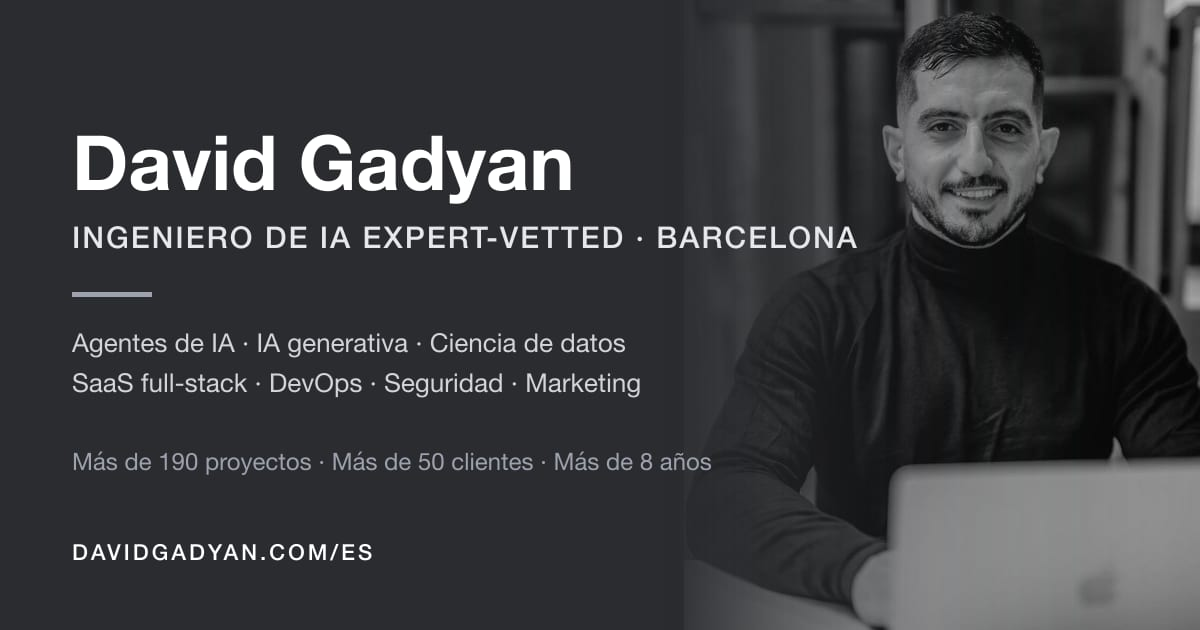
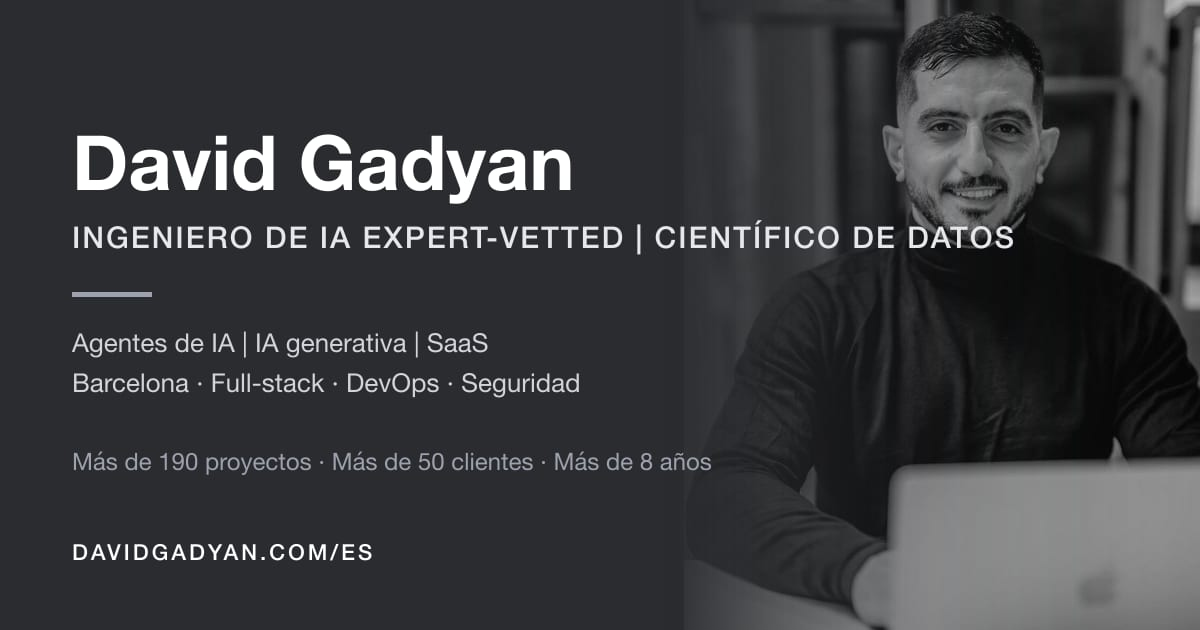
Use the EXPERT-VETTED headline in every title and tag
"EXPERT-VETTED AI Engineer | Data Scientist | AI Agent | Generative AI | SaaS" (ES:
"Ingeniero de IA EXPERT-VETTED | Científico de datos | Agentes de IA | IA generativa | SaaS")
now appears in the OG/Twitter image alt, hero image alt, JSON-LD jobTitle and service name,
manifest name, footer copyright, privacy page, FAQ answer, README and package description.
Share cards regenerated with the headline split over two lines.

Changed region(s): [[0.0617, 0.5127, 0.555, 0.6333], [0.5242, 0.3317, 0.8633, 0.3921]]

diff --git a/data/faq.ts b/data/faq.ts
@@ -5,8 +5,8 @@ export interface FaqEntry { id: string; q: Localized<string>; a: Localized<strin
 export const faq: FaqEntry[] = [
   { id: 'what', keywords: ['who', 'about', 'background', 'role', 'specialise', 'specialize', 'expertise'],
     q: { en: 'What does David Gadyan do?', es: '¿A qué se dedica David Gadyan?' },
-    a: { en: 'David Gadyan is a Full-Stack AI Engineer based in Barcelona with 8+ years of experience and 190+ delivered projects. He integrates AI into websites and products and builds everything around it: the UI/UX, the full-stack application, the database, the deployment and DevOps, the security and compliance work, and the analytics and marketing that prove the result.',
-         es: 'David Gadyan es un Ingeniero Full-Stack de IA afincado en Barcelona, con más de 8 años de experiencia y más de 190 proyectos entregados. Integra IA en webs y productos y construye todo lo que hay alrededor: la UI/UX, la aplicación full-stack, la base de datos, el despliegue y el DevOps, la seguridad y el cumplimiento normativo, y la analítica y el marketing que demuestran el resultado.' } },
+    a: { en: 'David Gadyan is an Upwork EXPERT-VETTED AI Engineer and Data Scientist (AI agents, generative AI, SaaS) based in Barcelona with 8+ years of experience and 190+ delivered projects. He integrates AI into websites and products and builds everything around it: the UI/UX, the full-stack application, the database, the deployment and DevOps, the security and compliance work, and the analytics and marketing that prove the result.',
+         es: 'David Gadyan es un Ingeniero de IA y Científico de datos EXPERT-VETTED en Upwork (agentes de IA, IA generativa, SaaS) afincado en Barcelona, con más de 8 años de experiencia y más de 190 proyectos entregados. Integra IA en webs y productos y construye todo lo que hay alrededor: la UI/UX, la aplicación full-stack, la base de datos, el despliegue y el DevOps, la seguridad y el cumplimiento normativo, y la analítica y el marketing que demuestran el resultado.' } },
   { id: 'services', keywords: ['services', 'offer', 'help', 'do for me', 'capabilities', 'skills'],
     q: { en: 'What services do you offer?', es: '¿Qué servicios ofreces?' },
     a: { en: 'Ten: AI integration for websites and products; agentic AI systems and automation; full-stack web and app development; UI/UX design and dashboards; AI ERP and SaaS development; data science, machine learning and computer vision; databases and data engineering; deployment, DevOps, AIOps and LLMOps; security and compliance (penetration testing, audits, GDPR); and AI marketing with GA4, Google Ads, SEO and GEO/AEO.',

diff --git a/lib/seo/jsonld.ts b/lib/seo/jsonld.ts
@@ -53,7 +53,7 @@ export function serviceNode(locale: Locale) {
   return {
     '@type': 'ProfessionalService',
     '@id': SERVICE_ID,
-    name: locale === 'es' ? 'David Gadyan — Ingeniería Full-Stack de IA' : 'David Gadyan — Full-Stack AI Engineering',
+    name: locale === 'es' ? 'David Gadyan — Ingeniero de IA EXPERT-VETTED | Científico de datos | Agentes de IA | IA generativa | SaaS' : 'David Gadyan — EXPERT-VETTED AI Engineer | Data Scientist | AI Agent | Generative AI | SaaS',
     url: `${SITE_URL}/`,
     founder: { '@id': PERSON_ID },
     address: { '@type': 'PostalAddress', addressLocality: site.city, addressRegion: site.region, addressCountry: site.country },

diff --git a/data/site.ts b/data/site.ts
@@ -4,7 +4,7 @@ export const site = {
   name: 'David Gadyan',
   firstName: 'David',
   lastName: 'Gadyan',
-  jobTitle: { en: 'Expert-Vetted AI Engineer, Data Scientist & SaaS Developer', es: 'Ingeniero de IA Expert-Vetted, Científico de datos y Desarrollador SaaS' } as Localized<string>,
+  jobTitle: { en: 'EXPERT-VETTED AI Engineer | Data Scientist | AI Agent | Generative AI | SaaS', es: 'Ingeniero de IA EXPERT-VETTED | Científico de datos | Agentes de IA | IA generativa | SaaS' } as Localized<string>,
   city: 'Barcelona',
   region: 'Catalonia',
   country: 'ES',

diff --git a/app/manifest.ts b/app/manifest.ts
@@ -5,7 +5,7 @@ export const dynamic = 'force-static';
 
 export default function manifest(): MetadataRoute.Manifest {
   return {
-    name: 'David Gadyan — Expert-Vetted AI Engineer',
+    name: 'David Gadyan — EXPERT-VETTED AI Engineer | Data Scientist | AI Agent | Generative AI | SaaS',
     short_name: 'David Gadyan',
     description: 'Expert-Vetted AI Engineer and Data Scientist in Barcelona: AI agents, generative AI, full-stack SaaS, DevOps, security and AI marketing.',
     start_url: withBasePath('/'),

diff --git a/README.md b/README.md
@@ -1,6 +1,6 @@
 # davidgadyan.com
 
-Bilingual (EN at `/`, ES at `/es/`) static portfolio for **David Gadyan — Full-Stack AI Engineer**, built with
+Bilingual (EN at `/`, ES at `/es/`) static portfolio for **David Gadyan — EXPERT-VETTED AI Engineer | Data Scientist | AI Agent | Generative AI | SaaS**, built with
 Next.js 16 (App Router, static export), React 19, Tailwind CSS 4 and MDX content. Deployed to GitHub Pages.
 
 ## Commands
